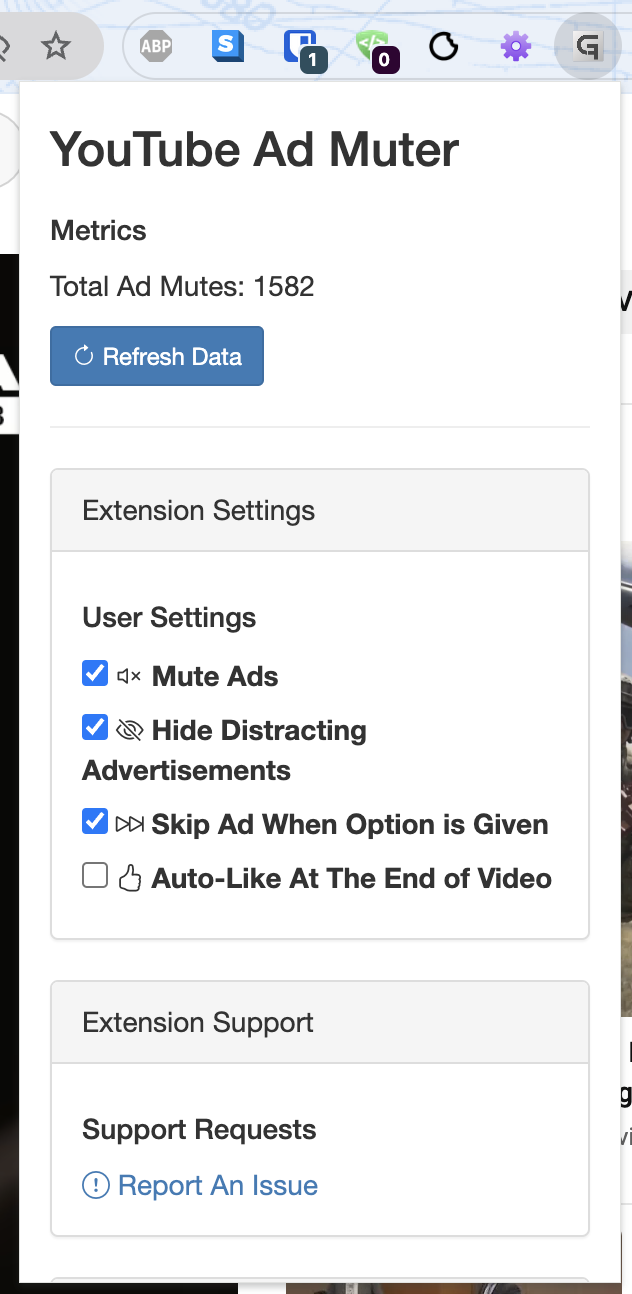
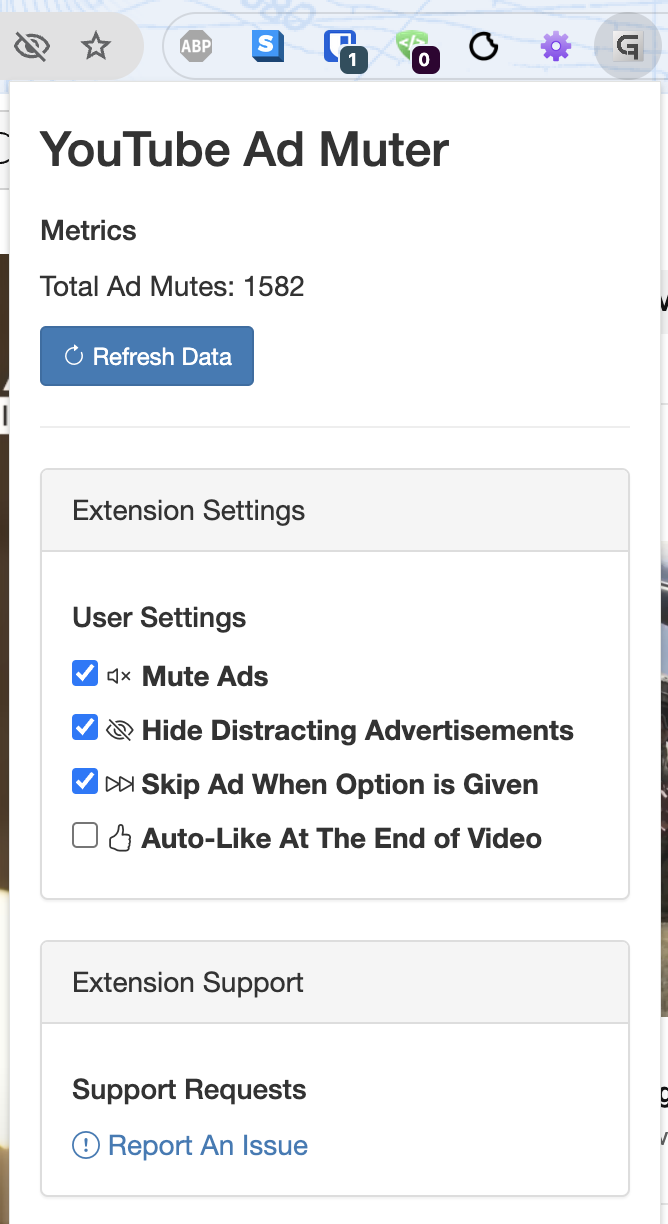
Adjust width and update screenshot to capture change

Changed region(s): [[0.0, 0.0, 1.0, 1.0], [0.0601, 0.3725, 0.932, 0.7451]]

diff --git a/popup.html b/popup.html
@@ -23,7 +23,7 @@
 </head>
 
 <body>
-  <div class="container" style="width: 300px;">
+  <div class="container" style="width: 325px;">
     <h3>YouTube Ad Muter</h3>
     <div class="row">
       <div class="col-md-6">
